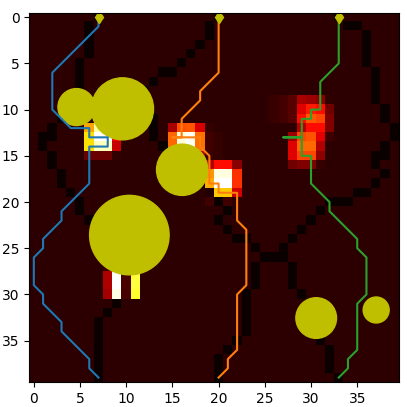
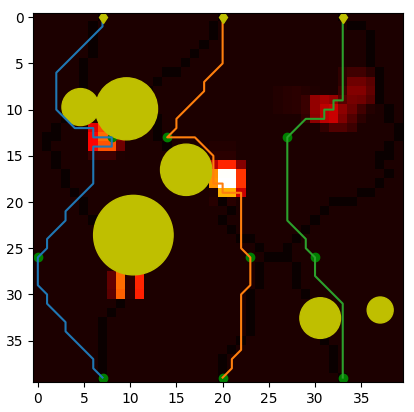
Minor changes to accomodate functionality for randomly generated obstacles

diff --git a/PathPlanner.py b/PathPlanner.py
@@ -8,7 +8,7 @@ from BellmanFordOptimizer import BellmanFord as PathOptimizer
 import matplotlib.pyplot as plt
 import time
 
-plotBool = False
+plotBool = True
 recordTimeExecution = not plotBool
 
 class Default:
@@ -38,6 +38,9 @@ class Default:
         self.params.setdefault( 'iter', 25000 )
         self.params.setdefault( 'alpha', 9)
 
+        # Optimization Parameters
+        self.params.setdefault( 'DroneWaypoints', 2)
+
 class PathPlanner(SimulationMap):
     heatmap = None
     searcherMap = None
@@ -45,8 +48,9 @@ class PathPlanner(SimulationMap):
     pathCost = []
     params = {}
 
-    def __init__(self, load='yes', filename="TestMap.npy"):
+    def __init__(self, load='yes', filename="TestMap.npy", params=Default().params):
                  #size=400, resolution=(10, 10), minHeight=0, maxHeight=10, numObstacles=6) -> None:
+        self.params = params
         if load != 'yes':
             super().__init__(size=self.params['area'],\
                               resolution=self.params['res'],\
@@ -58,7 +62,7 @@ class PathPlanner(SimulationMap):
             self.loadMap(filename)
 
         #p = Default()
-        self.params = Default().params
+        
         self.optimizer = PathOptimizer()
         if plotBool:
             fig, self.ax = plt.subplots()
@@ -100,6 +104,7 @@ class PathPlanner(SimulationMap):
          # plot the path the searcher took
         plt.imshow(planner.terrainHeight, cmap='terrain_r')
         plt.title("Searcher Trajectories")
+        plt.colorbar()
         for waypoints, path in zip(self.waypointsList, self.pathList):     
             
             # Plot path       
@@ -124,7 +129,7 @@ class PathPlanner(SimulationMap):
         plt.colorbar()
         plt.show()
 
-    def generateDronePaths(self, startendPoints, numTurnsPerDrone):
+    def generateDronePaths(self, startendPoints):
         paths = []
 
         gridlen = int(self.maplen/self.res) - 1
@@ -135,7 +140,7 @@ class PathPlanner(SimulationMap):
 
             domain = (i*segmentLen, (i+1)*segmentLen)
 
-            self.optimizer.initGraph(self, start, end, numTurnsPerDrone, domain)
+            self.optimizer.initGraph(self, start, end, self.params["DroneWaypoints"], domain)
             self.optimizer.optimize()
             paths.append(self.optimizer.optimalPath())
 
@@ -143,7 +148,7 @@ class PathPlanner(SimulationMap):
                 x_coords = [point[0] for point in self.optimizer.waypoints]
                 y_coords = [point[1] for point in self.optimizer.waypoints]
 
-                self.ax.scatter(x_coords, y_coords, 200)
+                self.ax.scatter(x_coords, y_coords, c='g')
 
             i += 1
 
@@ -177,15 +182,11 @@ if __name__ == "__main__":
                  searcher3_waypoints]
 
     dronePointsInit = [(wp[0], wp[len(wp)-1]) for wp in waypoints]
-
-    """
-    searcher_start_pos = [(7, 39), (20, 39), (33, 39)]
-    searcher_targets=[[(0, 26), (13, 13), (7, 0)], \
-               [(13, 26), (26, 13), (20, 0)], \
-                [(26, 26), (39, 13), (33, 0)]]
-    """
-                
-    planner = PathPlanner()
+    
+    customSettings = Default()
+    #customSettings.params['DroneWaypoints'] = 4
+    #customSettings.params['numObstacles'] = 2
+    planner = PathPlanner(load='yes', params=customSettings.params)
 
     if recordTimeExecution:
         print(f"\nTIMING THE EXECUTION OF PATH PLANNER NOW...\n")
@@ -208,8 +209,9 @@ if __name__ == "__main__":
         planner.showHeatmap()
 
     #print("GENERATING DRONE PATHS...")
-    fig, planner.ax = plt.subplots()
-    optimalDronePaths = planner.generateDronePaths(dronePointsInit, 2)
+    if plotBool:
+        fig, planner.ax = plt.subplots()
+    optimalDronePaths = planner.generateDronePaths(dronePointsInit)
 
     # Plot Final Map
     if plotBool:
@@ -238,6 +240,7 @@ if __name__ == "__main__":
 
     # Execute Drone Path Planning and measure performance...
 
+    # One Problem with this approach is that it may not scale well for larger grid sizes
 
     
     

diff --git a/mapGenerator.py b/mapGenerator.py
@@ -33,7 +33,7 @@ class SimulationMap:
 
         obstacleX = size*np.random.rand(numObstacles)
         obstacleY = size*np.random.rand(numObstacles)
-        obstacleRadii = 75*np.random.rand(numObstacles) + 25
+        obstacleRadii = 25*np.random.rand(numObstacles) + 25
 
         self.obstacles = list(zip(list(zip(obstacleX, obstacleY)), obstacleRadii))
         self.maplen = size
